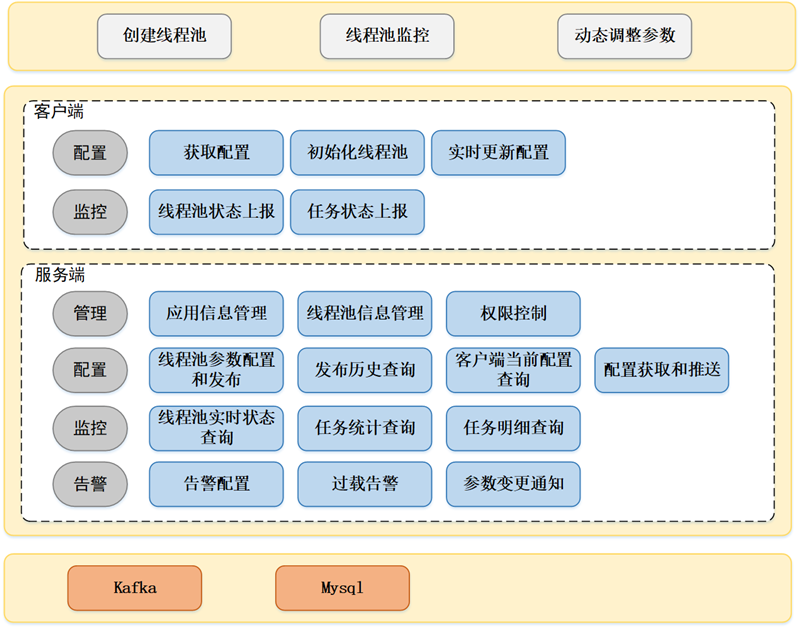
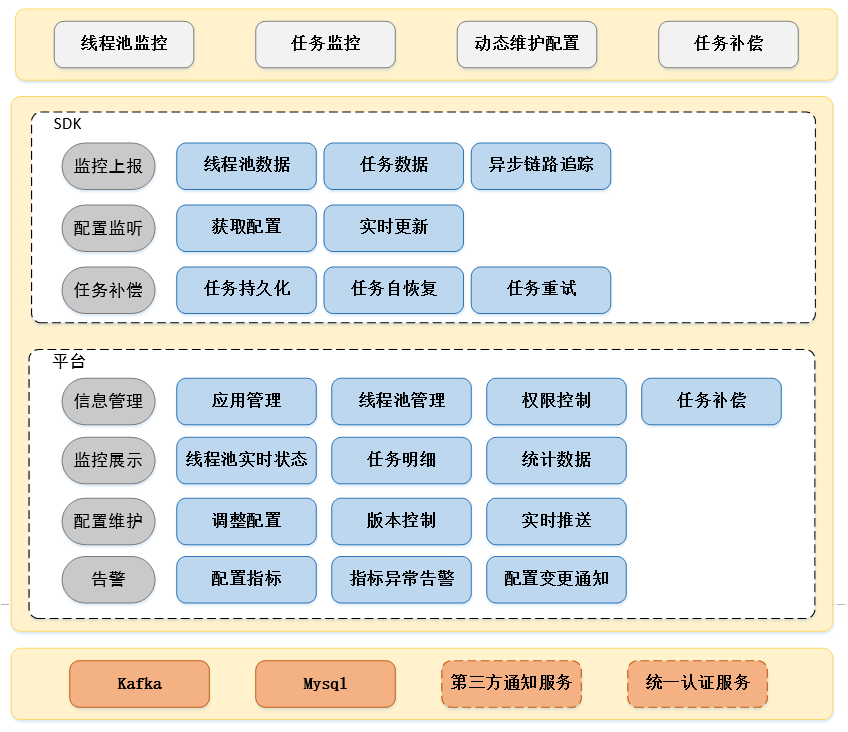
update README.md

diff --git a/README.md b/README.md
@@ -26,19 +26,19 @@
 
 - ### 实时监控异步调度（线程池和异步任务），故障预警
 
-- ### 动态维护线程池配置，降低维护成本，及时规避故障或加速故障恢复
+- ### 动态维护线程池配置，及时规避故障或加速故障恢复
 
-- ### 异步调度任务高可靠，默认与数据库可靠性级别一致，可自行扩展提高级别
+- ### 异步调度任务高可靠，支持任务持久化
 
-- ### 异步调度任务高可用，支持异步任务自恢复和重试，故障后快速补偿异常任务
+- ### 异步调度任务高可用，支持异步任务自恢复和重试补偿
 
-- ### 易扩展，业务系统可自行实现接口，替换默认实现
+- ### 易扩展，业务系统可自行实现接口自定义功能
 
 - ### 易用，低侵入（只需注解，无需编码）
 
 # Usage
 
-- 服务端演示地址
+- 平台演示地址
 
   http://jedi.hellothomas.xyz:8080
 
@@ -47,9 +47,9 @@
 
   <mark>请勿对jedi-demo示例应用做非查询操作</mark>
 
-- Java客户端使用指南
+- 客户端使用指南
 
-  [客户端使用指南](https://github.com/hellothomas-group/jedi/wiki#%E4%B8%80-%E5%AE%A2%E6%88%B7%E7%AB%AF%E4%BD%BF%E7%94%A8%E6%8C%87%E5%8D%97)
+  [SDK使用指南](https://github.com/hellothomas-group/jedi/wiki#%E4%B8%80-%E5%AE%A2%E6%88%B7%E7%AB%AF%E4%BD%BF%E7%94%A8%E6%8C%87%E5%8D%97)
   
   客户端演示地址，服务器最低配置，各位浅尝辄止
   
@@ -57,17 +57,29 @@
 
 # Design
 
-[设计与实现](https://github.com/hellothomas-group/jedi/wiki#%E4%BA%8C-%E8%AE%BE%E8%AE%A1%E4%B8%8E%E5%AE%9E%E7%8E%B0)
+**功能设计**
+
+![功能设计图](https://user-images.githubusercontent.com/30972648/156911422-afb26a3f-a7e3-4d44-8099-c7a95f7170ab.png)
+
+**系统架构**
+
+![系统架构图](https://user-images.githubusercontent.com/30972648/156911221-973307c3-afe4-4e6b-8786-44760b4f4b61.png)
 
 # Development
 
+1.  下载最新源码。
+2. 数据库建表 doc/db目录下tables_jedi_config.sql、tables_jedi_consumer.sql。
+3. 调整jedi-config、jedi-consumer、jedi-admin模块中resources/application-local.yml的数据库配置，分别运行三个后端应用。
+4. 启动前端应用，cd jedi-ui，已安装npm，则执行npm run start。未安装则执行npm install。访问 http://localhost:8089登录，用户名/密码 admin/123456。
+5. 启动示例应用jedi-demo。数据库建表，db/init.sql。调整resources/application-local.yml的数据库配置，运行应用。访问http://127.0.0.1:8090/swagger-ui.html触发请求。
+
 # Deployment
 
-[服务端部署指南](https://github.com/hellothomas-group/jedi/wiki#%E4%B8%89-%E6%9C%8D%E5%8A%A1%E7%AB%AF%E9%83%A8%E7%BD%B2%E6%8C%87%E5%8D%97)
+[平台部署指南](https://github.com/hellothomas-group/jedi/wiki#%E4%B8%89-%E6%9C%8D%E5%8A%A1%E7%AB%AF%E9%83%A8%E7%BD%B2%E6%8C%87%E5%8D%97)
 
 # Release Notes
 
-first release(1.0.0) will come soon
+0.0.11 - first release version
 
 # FAQ
 
@@ -76,6 +88,8 @@ first release(1.0.0) will come soon
 [Apache 2 license](https://github.com/hellothomas-group/jedi/blob/main/LICENSE).
 
 # Known Users
+
+![招商银行](http://www.cmbchina.com/Images/header/app/icon_zsyh.png)招商银行
 
 # Stars
 Gitee Stars
